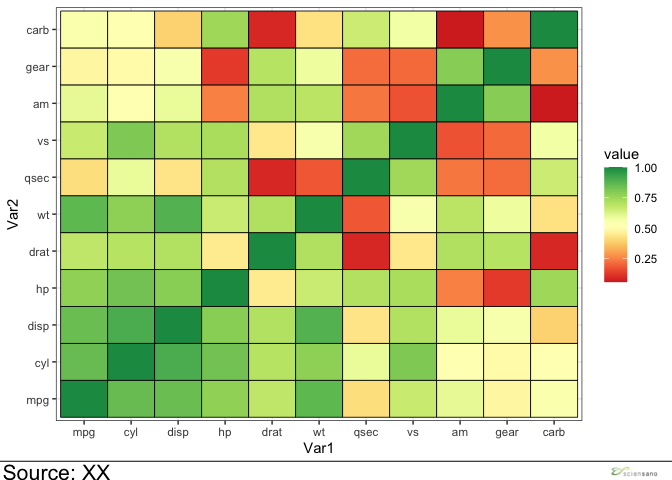
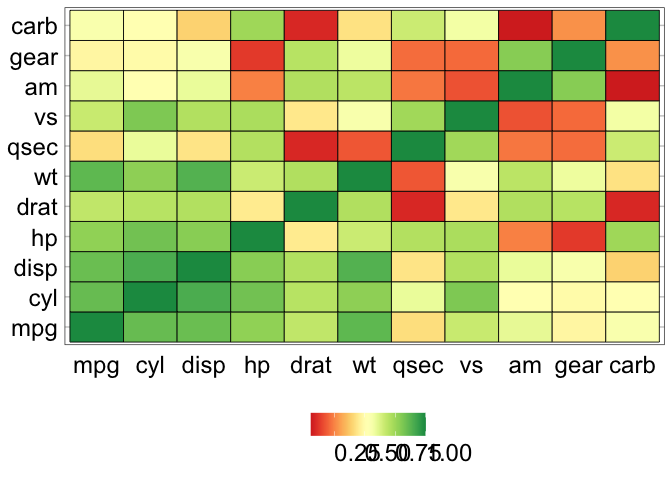
Add sciensano style to figure with Arial

diff --git a/README.md b/README.md
@@ -119,7 +119,19 @@ p3 <- ggplot(
 cowplot::plot_grid(p1, p2, p3)
 ```
 
-<img src="man/figures/README-unnamed-chunk-6-1.png" width="100%" />
+<img src="man/figures/README-unnamed-chunk-6-1.png" width="100%" /> ###
+sciensano style
+
+`sciensano_style()`: has no arguments and is added to the ggplot chain
+after you have created a plot. What it does is generally makes text
+size, font and colour, axis lines, axis text and many other standard
+chart components into Sciensano style.
+
+``` r
+p1+sciensano_style()
+```
+
+<img src="man/figures/README-unnamed-chunk-7-1.png" width="100%" />
 
 ### Finalizing plots
 
@@ -163,4 +175,4 @@ width_pixels = 640,
 height_pixels = 550)
 ```
 
-<img src="man/figures/README-unnamed-chunk-7-1.png" width="100%" />
+<img src="man/figures/README-unnamed-chunk-8-1.png" width="100%" />
